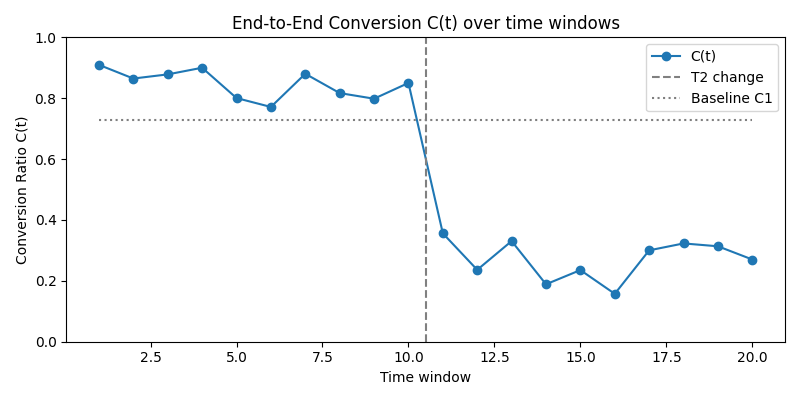
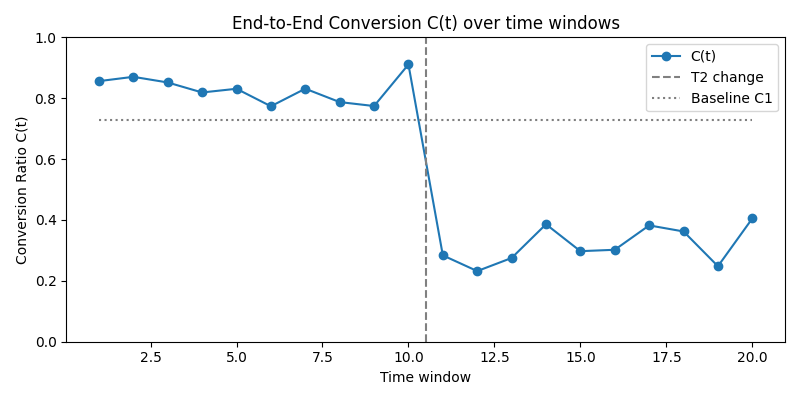
adds jitter and time-window noise

Changed region(s): [[0.6562, 0.54, 0.9688, 0.75], [0.0938, 0.15, 0.5312, 0.36], [0.5312, 0.42, 0.6562, 0.69]]

diff --git a/src/metrics_demo.py b/src/metrics_demo.py
@@ -146,6 +146,74 @@ if len(stable_C) >= 2:
 	plt.savefig("images/plot7.png")
 	plt.close()
 
+
+def simulate_windowed_T(num_users_per_minute: int, num_minutes: int, p_success: float = 0.9, mean_delay: float = 1.0):
+	"""Simulate a single transition (Step 1 -> Step 2) in 1-minute windows.
+
+	Each minute we get `num_users_per_minute` new users entering step 1.
+	Each user has probability `p_success` of eventually reaching step 2, with
+	a random delay drawn from an exponential distribution with mean `mean_delay`.
+
+	We then count step-1 and step-2 arrivals per minute and return the measured
+	T1(t) = A2(t)/A1(t) time series.
+	"""
+	step1_times = []
+	step2_times = []
+
+	for minute in range(num_minutes):
+		for _ in range(num_users_per_minute):
+			# User enters step 1 at some point within this minute
+			t1 = minute + random.random()
+			step1_times.append(t1)
+			if random.random() < p_success:
+				# Exponential delay before reaching step 2
+				delay = random.expovariate(1.0 / mean_delay)
+				t2 = t1 + delay
+				step2_times.append(t2)
+
+	A1 = [0] * num_minutes
+	A2 = [0] * num_minutes
+
+	for t in step1_times:
+		m = int(t)
+		if 0 <= m < num_minutes:
+			A1[m] += 1
+
+	for t in step2_times:
+		m = int(t)
+		if 0 <= m < num_minutes:
+			A2[m] += 1
+
+	T_series = []
+	for m in range(num_minutes):
+		if A1[m] > 0:
+			T_series.append(A2[m] / A1[m])
+		else:
+			T_series.append(float("nan"))
+
+	return T_series
+
+
+# 8) Time-window noise vs funnels (jitter analogy)
+minutes = 60
+low_volume_T = simulate_windowed_T(num_users_per_minute=2, num_minutes=minutes, p_success=T2, mean_delay=1.0)
+mid_volume_T = simulate_windowed_T(num_users_per_minute=200, num_minutes=minutes, p_success=T2, mean_delay=1.0)
+high_volume_T = simulate_windowed_T(num_users_per_minute=2000, num_minutes=minutes, p_success=T2, mean_delay=1.0)
+
+plt.figure(figsize=(8, 4))
+plt.plot(range(1, minutes + 1), low_volume_T, marker="o", linestyle="-", color="#1f77b4", alpha=0.7, label="2 users/min")
+plt.plot(range(1, minutes + 1), mid_volume_T, marker="o", linestyle="-", color="#7f7f7f", alpha=0.8, label="200 users/min")
+plt.plot(range(1, minutes + 1), high_volume_T, marker="o", linestyle="-", color="#2ca02c", alpha=0.9, label="2000 users/min")
+plt.hlines(T2, 1, minutes, colors="black", linestyles="dotted", label="True step-1→2 probability")
+plt.title("Measured T1(t) in 1-minute windows (timing jitter)")
+plt.xlabel("Minute window")
+plt.ylabel("T1(t) = A2(t)/A1(t)")
+plt.ylim(0, 1.1)
+plt.legend()
+plt.tight_layout()
+plt.savefig("images/plot8.png")
+plt.close()
+
 # Print math for clarity (optional, not in plot)
 print(f"Normal: C = {T1} * {T2} * {T3} * {T4} = {C1:.2f}")
 print(f"Drop:   C = {T1} * {T2_drop} * {T3} * {T4} = {C2:.2f}")

diff --git a/README.md b/README.md
@@ -80,6 +80,27 @@ The math is based on ratios ($T_i$, $C$), not on absolute counts.
 - Under a stable system you can put upper/lower bands around $C(t)$ and detect when
   behavior breaks away from the usual range.
 
+### Time windows, funnels, and jitter
+
+Funnels follow individual users across time, so each user is counted once in each step,
+no matter how long they take between steps.
+
+In this model we do not track users; we only see flows per time window. If the window
+is short (for example: 1 minute) and a user spends more than 1 minute between step 1
+and step 2, they appear in $A_1(t)$ in one window and in $A_2(t')$ in the next window.
+In that case, the per-window ratio $T_1(t) = A_2(t)/A_1(t)$ is a **noisy estimate** of
+the true step-1→2 success probability.
+
+This is similar in spirit to [exponential backoff with jitter](https://aws.amazon.com/blogs/architecture/exponential-backoff-and-jitter/):
+randomness in timing spreads events across buckets. At low volume and with very small
+windows, this jitter makes $T_i(t)$ and $C(t)$ look noisy, even when the underlying
+system is perfectly stable.
+
+As volume grows (or you use slightly larger windows), the law of large numbers wins:
+flows eventually move into the next step, and the window-level ratios settle around
+their true values. The SPC-style view of $C(t)$ and the control limits help you focus
+on structural changes instead of this natural timing jitter.
+
 ### SPC and control limits
 
 Once you have $C(t)$ over time, you can treat it like a control chart:
@@ -261,3 +282,24 @@ Under a stable system, almost all points should stay between UCL and LCL.
 When the flow changes (for example, a bad T2 experiment), $C(t)$ will sit
 outside this band for a while, which is a strong signal that something
 structural has changed.
+
+### 8. Time-window noise vs funnels (jitter analogy)
+
+![T1 in 1-minute windows: low vs high volume](images/plot8.png)
+
+What it shows:
+- A 2-step flow (Step 1 → Step 2) where each user has a fixed true success probability.
+- We measure $T_1(t) = A_2(t)/A_1(t)$ in 1-minute windows for three cases:
+  2 users/min, 200 users/min, and 2000 users/min.
+
+Interpretation:
+- At 2 users/min, per-window $T_1(t)$ jumps around a lot because users cross
+  window boundaries; arrivals into step 2 are jittered over time.
+- At 200 users/min, the same randomness is already much smoother.
+- At 2000 users/min, the measured $T_1(t)$ hugs the true underlying probability.
+
+This is the practical difference between funnels (tracking each user) and this
+flow-based model (tracking windows). Timing jitter matters a lot at low volume
+and tiny windows, but becomes mostly noise once you have enough users or slightly
+larger windows. The SPC $C(t)$ view lets you ignore this jitter and focus on
+real, structural changes in the flow.
